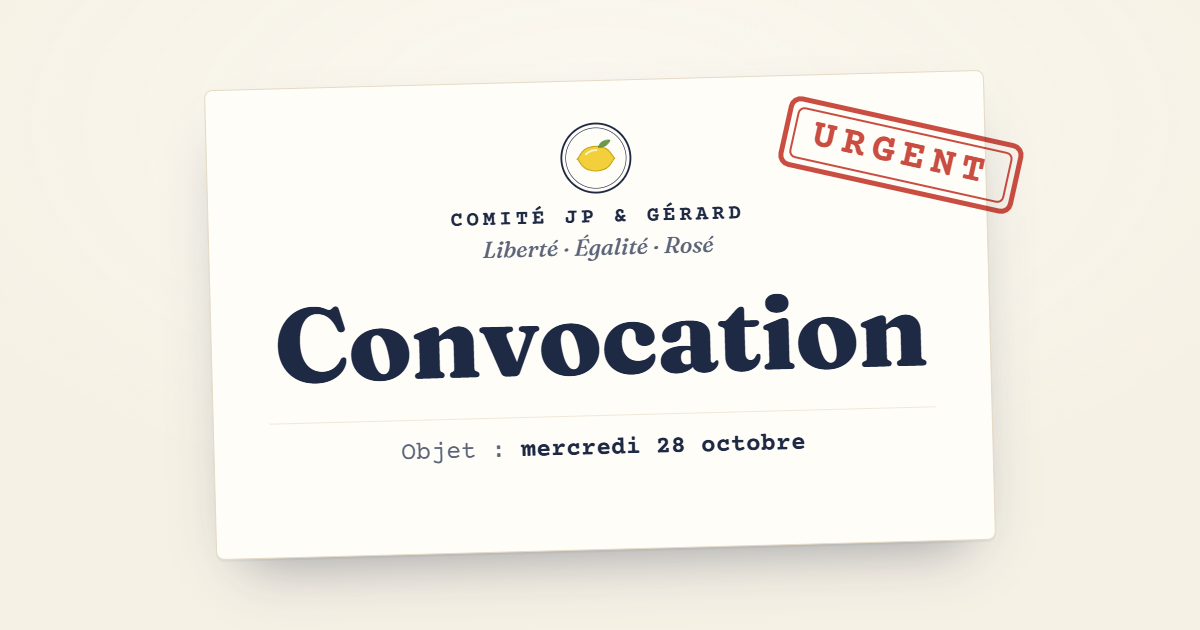
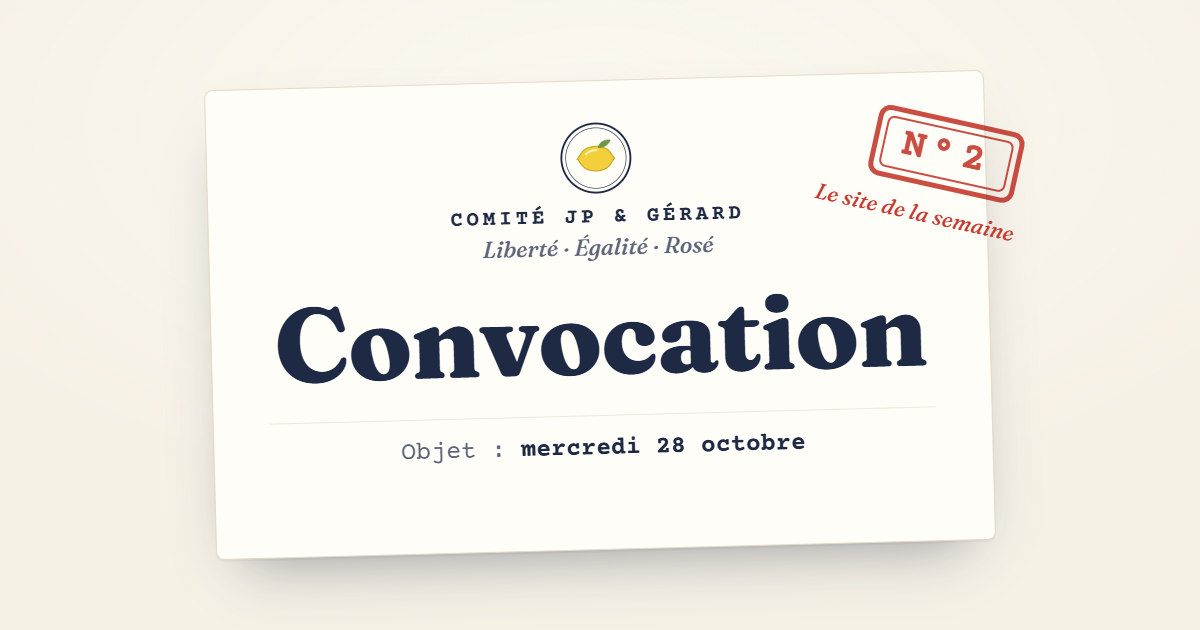
Le site de la semaine n°2, et la nouvelle coupe (ce n'est pas un carré)

Changed region(s): [[0.6475, 0.1508, 0.8633, 0.3921]]

diff --git a/index.html b/index.html
@@ -9,7 +9,7 @@
 <title>Convocation</title>
 <meta name="description" content="Le comité JP &amp; Gérard se réunit au sujet de mercredi.">
 <meta property="og:type" content="website">
-<meta property="og:title" content="Convocation">
+<meta property="og:title" content="Le site de la semaine · n°2">
 <meta property="og:description" content="Le comité JP &amp; Gérard se réunit au sujet de mercredi.">
 <meta property="og:url" content="https://synergytw.github.io/convocation/">
 <meta property="og:image" content="https://synergytw.github.io/convocation/og.png">
@@ -66,6 +66,7 @@ h2{font-size:34px}
 .emblem{width:50px;height:50px;margin-bottom:6px}
 .org{margin:0;font:700 13px/1.2 var(--f-mono);letter-spacing:.16em;text-transform:uppercase}
 .motto{margin:0;font:italic 500 15px/1.3 var(--f-title);color:var(--ink-2)}
+.numero{display:table;margin:0 auto 10px;padding:5px 12px 4px;border-radius:999px;background:var(--lemon);font:700 12px/1.2 var(--f-mono);letter-spacing:.08em;text-transform:uppercase}
 .letter h1{text-align:center;margin:2px 0 16px}
 .meta{margin:0 0 16px;font:400 14px/1.35 var(--f-mono)}
 .meta div{display:flex;gap:10px;padding:7px 0;border-bottom:1px solid var(--line-2)}
@@ -93,7 +94,8 @@ h2{font-size:34px}
 .aside{margin:-8px 0 0;text-align:center;font:italic 500 22px/1.2 var(--f-title)}
 
 /* ---------- séance ---------- */
-.exhibit{margin:14px 0 0;padding:12px 14px;border-left:3px solid var(--lemon);background:#fdf8e4;font:italic 500 20px/1.3 var(--f-title)}
+.rature{margin:0 0 2px;font:600 20px/1.2 var(--f-title);color:var(--ink-2);text-decoration:line-through;text-decoration-color:var(--red);text-decoration-thickness:3px}
+.exhibit{margin:12px 0 0;padding:10px 14px;border-left:3px solid var(--lemon);background:#fdf8e4;font:italic 500 18px/1.3 var(--f-title)}
 .exhibit span{display:block;margin-bottom:4px;font:700 11px/1.2 var(--f-mono);font-style:normal;letter-spacing:.12em;text-transform:uppercase;color:var(--ink-2)}
 .exhibit small{display:block;margin-top:4px;font:400 13px var(--f-body);color:var(--ink-2)}
 .minutes{list-style:none;margin:16px 0 0;padding:0;display:flex;flex-direction:column;gap:10px}
@@ -190,6 +192,8 @@ h2{font-size:34px}
 .ps{margin:14px 0 0;text-align:center;font:600 26px/1.2 "Caveat","Segoe Print","Bradley Hand",cursive;color:var(--ink);transform:rotate(-2deg)}
 .fin{display:flex;flex-direction:column;gap:12px}
 .levee{margin:4px 0 2px;text-align:center;font:800 30px/1.1 var(--f-title)}
+.prochain{margin:-6px 0 6px;text-align:center;font:400 14px/1.4 var(--f-mono);color:var(--ink-2)}
+.prochain small{display:block;font:italic 500 17px/1.3 var(--f-title);color:var(--ink)}
 .fin .hint{margin-top:-2px}
 .fin textarea{width:100%;min-height:76px;padding:10px 12px;border:1.5px solid var(--line);border-radius:12px;font:15px/1.4 var(--f-body);color:var(--ink);background:#fff}
 .row{display:flex;justify-content:center;flex-wrap:wrap;gap:4px 18px}
@@ -324,14 +328,15 @@ h2{font-size:34px}
       <p class="org">Comité JP &amp; Gérard</p>
       <p class="motto">Liberté · Égalité · Rosé</p>
     </div>
+    <p class="numero">Le site de la semaine · n°2</p>
     <h1>Convocation</h1>
     <dl class="meta">
       <div><dt>Objet&nbsp;:</dt><dd>mercredi 28&nbsp;octobre</dd></div>
       <div><dt>Séance&nbsp;:</dt><dd>extraordinaire</dd></div>
       <div><dt>Destinataire&nbsp;:</dt><dd>Clémence<small>(Clémentine pour les intimes)</small></dd></div>
     </dl>
-    <p class="body">Madame la Présidente, le comité se réunit en séance extraordinaire. Votre présence est requise. Votre voix aussi.</p>
-    <p class="ref">Réf.&nbsp;: 23h17-bis</p>
+    <p class="body">Madame la Présidente, comme promis, voici votre site de la semaine. Le comité se réunit. Votre voix est requise.</p>
+    <p class="ref">Réf.&nbsp;: n°1, 23h17</p>
   </div>
   <button class="btn" id="b-entrer" type="button">Entrer en séance</button>
 </section>
@@ -354,11 +359,13 @@ h2{font-size:34px}
 <section class="scene" id="s-carre" hidden>
   <p class="kicker">Ordre du jour · point n°1</p>
   <div class="doc">
-    <h2>Le carré</h2>
-    <p class="exhibit"><span>Pièce jointe</span>«&nbsp;C’est pas si cata&nbsp;»<small>La présidente, le 23&nbsp;octobre</small></p>
+    <p class="rature">Le carré</p>
+    <h2>La nouvelle coupe</h2>
+    <p class="exhibit"><span>Pièce jointe n°1</span>«&nbsp;J’ai plus un poil sur le caillou&nbsp;»<small>La présidente, le 23&nbsp;octobre. Fausse alerte.</small></p>
+    <p class="exhibit"><span>Pièce jointe n°2</span>«&nbsp;C’est pas si cata&nbsp;»<small>La présidente, un peu plus tard. Confirmé.</small></p>
     <div class="vote-zone">
       <ol class="minutes" id="m-carre" aria-live="polite"></ol>
-      <div class="stamp" id="st-carre" hidden>Adopté</div>
+      <div class="stamp" id="st-carre" hidden>Adoptée</div>
     </div>
     <p class="tally" id="t-carre" hidden>2&nbsp;voix pour · 1&nbsp;bouderie</p>
   </div>
@@ -392,10 +399,11 @@ h2{font-size:34px}
     <h2>Procès-verbal</h2>
     <p class="sub" id="pv-date">Séance extraordinaire</p>
     <ol class="articles">
-      <li><b>Point n°1 · Le carré</b>Adopté (2&nbsp;voix pour, 1&nbsp;bouderie).</li>
+      <li><b>Point n°1 · La nouvelle coupe</b>Adoptée (2&nbsp;voix pour, 1&nbsp;bouderie). Ce n’est pas un carré.</li>
       <li><b>Point n°2 · Mercredi 28&nbsp;octobre</b><span id="pv-choix"></span></li>
       <li><b>Clause météo</b><span id="pv-meteo"></span></li>
       <li><b>Article&nbsp;4</b>Les blagues caca restent autorisées (cf.&nbsp;23h17).</li>
+      <li><b>Article&nbsp;5 · Un site par semaine</b>Engagement maintenu. Gérard demande des congés payés.</li>
     </ol>
     <div class="sigs">
       <figure><svg viewBox="0 0 120 36" aria-hidden="true"><path d="M4 26C10 8 18 4 20 16C22 28 26 30 32 18C36 10 40 8 41 18C42 26 48 26 54 16C60 6 70 4 76 14C82 24 92 22 116 8M30 32C50 28 80 30 104 26" fill="none" stroke="currentColor" stroke-width="2" stroke-linecap="round" stroke-linejoin="round"/></svg><figcaption>JP</figcaption></figure>
@@ -416,6 +424,7 @@ h2{font-size:34px}
   <button class="btn" id="b-signature" type="button" disabled>Signer le procès-verbal</button>
   <div class="fin" id="fin" hidden>
     <p class="levee">Séance levée.</p>
+    <p class="prochain">Prochain site&nbsp;: la semaine prochaine.<small>(Si t’es gentille.)</small></p>
     <button class="btn" id="b-copier" type="button">Copier ma réponse</button>
     <textarea id="copy-txt" readonly hidden aria-label="Ta réponse"></textarea>
     <p class="hint">Colle-la-moi en DM. Le comité attend.</p>
@@ -587,7 +596,7 @@ h2{font-size:34px}
     await wait(950);
     say(m, 'enzo', 'Pour. Évidemment.'); buzz(10);
     await wait(1050);
-    const g = say(m, 'gerard', 'On m’a pas demandé.');
+    const g = say(m, 'gerard', 'On m’avait promis un carré.');
     await wait(450);
     g.classList.add('boude');
     await wait(900);
